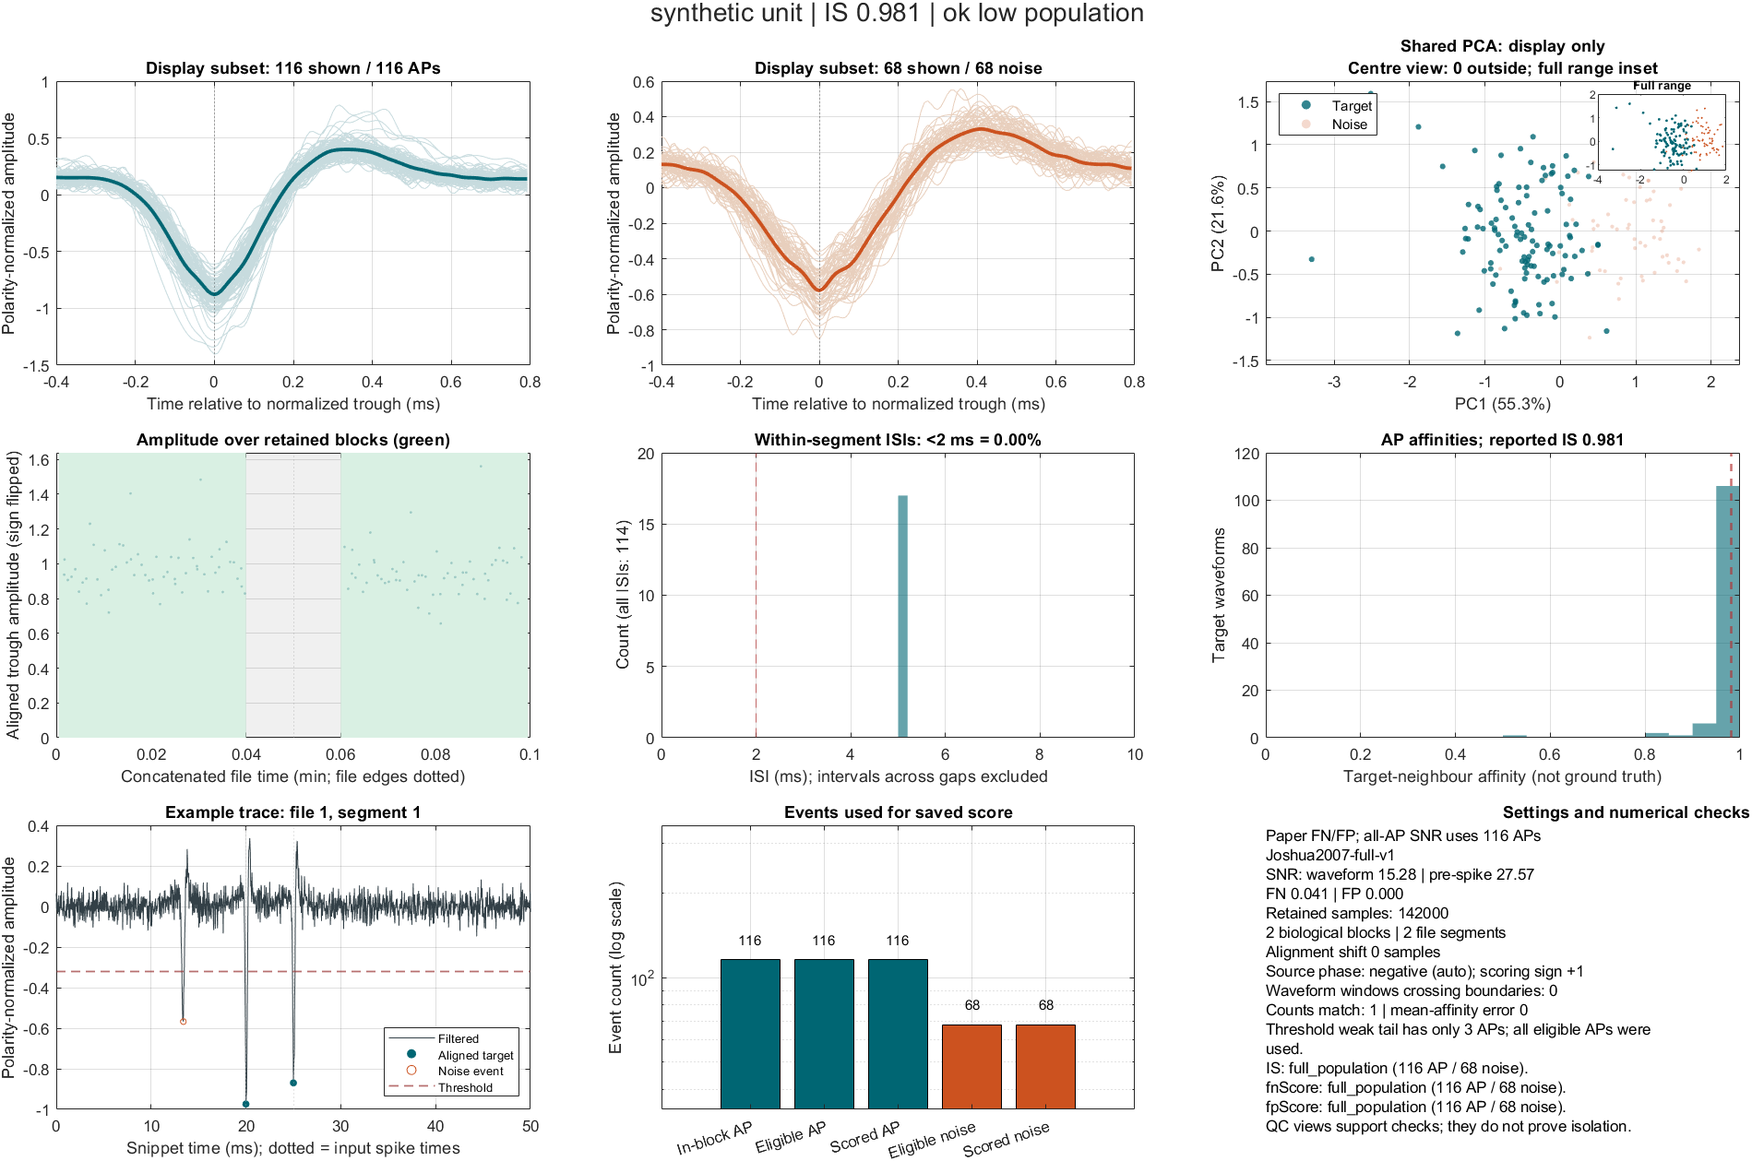
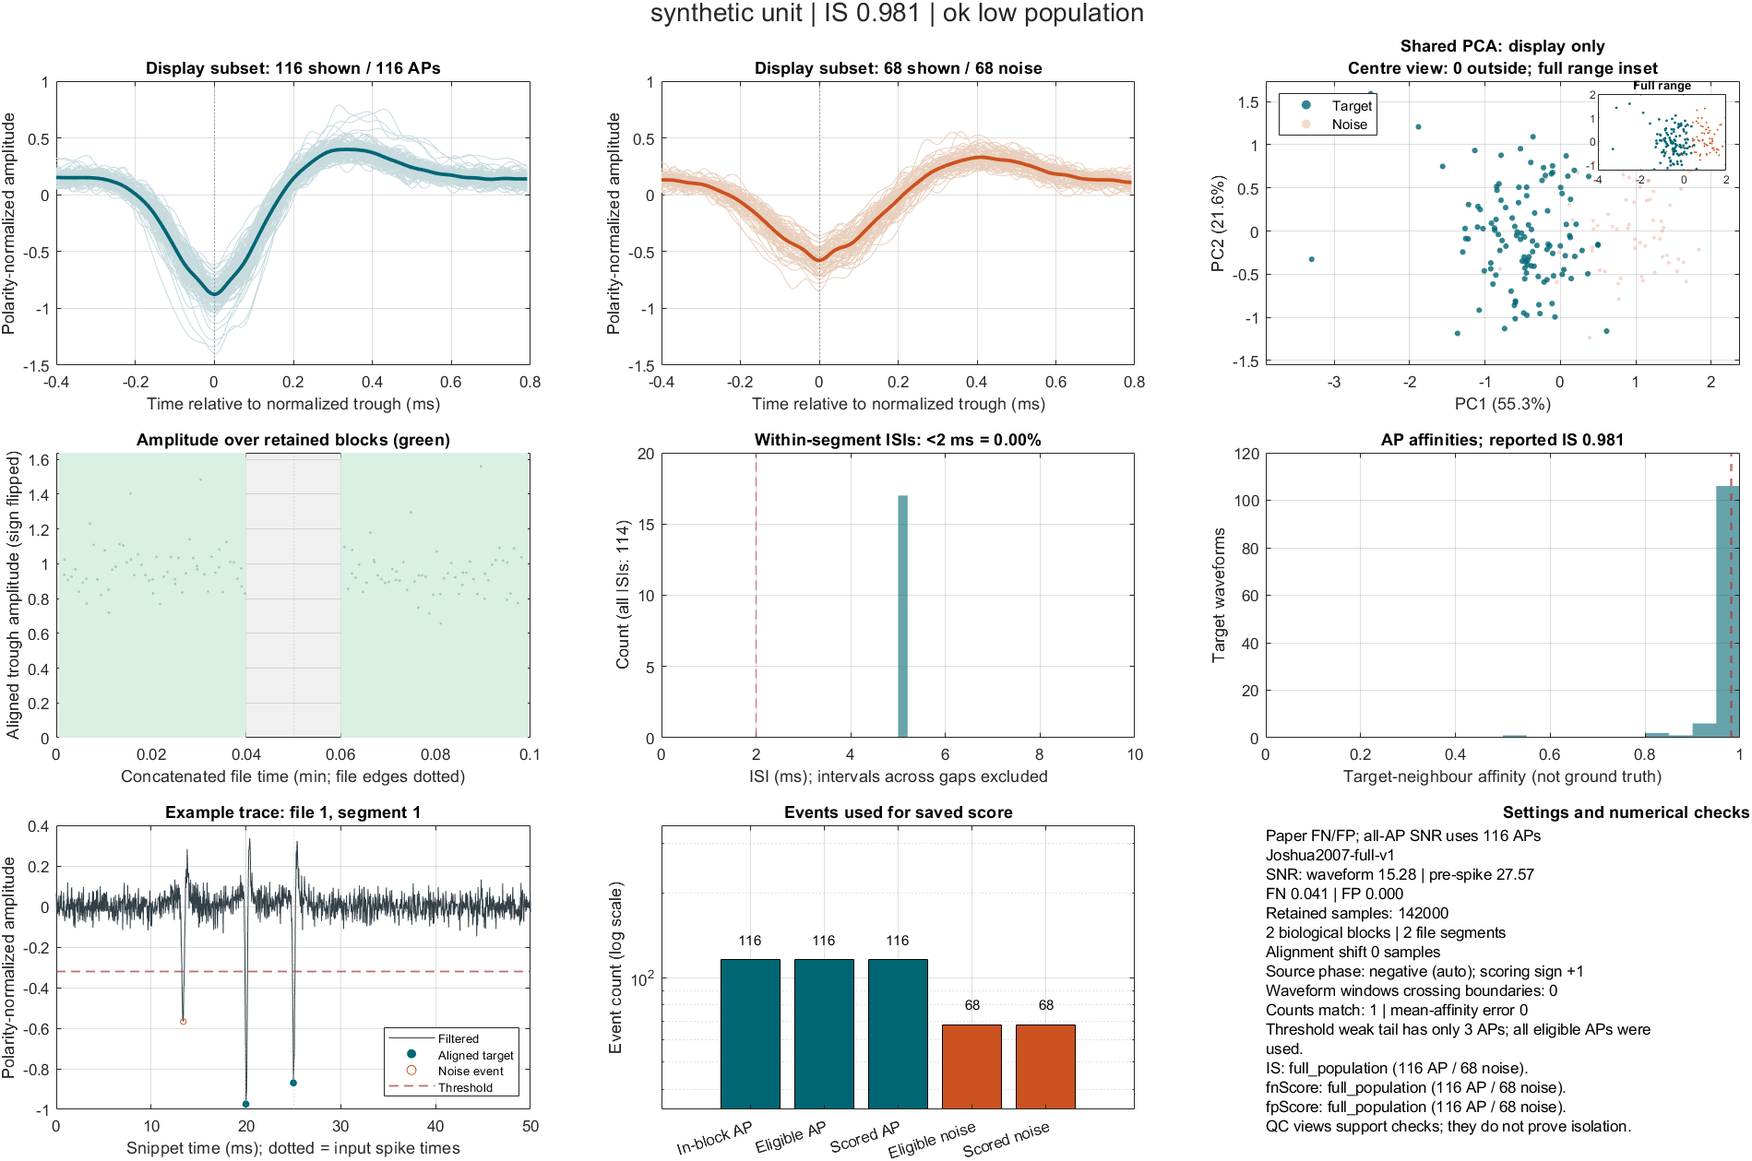
Clarify public documentation and use a shared waveform amplitude scale
Rename package links and citation title for isolation_score. Describe inputs, settings and metrics for public users, removing development-history wording. Link the AP and noise waveform y-axes and regenerate the synthetic example.

Validation: 15 portable tests passed; numerical demo results match the previous version exactly; shared limits include all displayed traces and remain synchronized during zooming.

Changed region(s): [[0.3728, 0.0929, 0.6524, 0.2788]]

diff --git a/+isolation/private/plot_isolation_unit.m b/+isolation/private/plot_isolation_unit.m
@@ -25,7 +25,7 @@ end
 teal=[0 .4 .45]; orange=[.8 .32 .12];
 layout=tiledlayout(fig,3,3,'Padding','compact','TileSpacing','loose');
 title(layout,sprintf('%s | IS %.3f | %s',name,r.IS,strrep(r.Status,'_',' ')),'Interpreter','none','FontSize',17);
-ax=nexttile(layout); hold(ax,'on');
+ax=nexttile(layout); hold(ax,'on'); targetWaveformAxis=ax;
 % First row: waveforms actually scored, plus their shared display projection.
 plot(ax,t,q.TargetWaveforms','Color',[.78 .86 .87],'LineWidth',.4);
 plot(ax,t,q.TargetMean,'Color',teal,'LineWidth',2.3); xline(ax,0,':');
@@ -36,6 +36,12 @@ plot(ax,t,q.NoiseWaveforms','Color',[.91 .81 .74],'LineWidth',.4);
 plot(ax,t,q.NoiseMean,'Color',orange,'LineWidth',2.3); xline(ax,0,':');
 title(ax,sprintf('Display subset: %d shown / %d noise',size(q.NoiseWaveforms,1),r.NumNoise));
 xlabel(ax,'Time relative to normalized trough (ms)'); ylabel(ax,'Polarity-normalized amplitude'); grid(ax,'on');
+% A shared range makes AP/noise amplitudes directly comparable; include the
+% full automatic range of both panels, then keep them linked during zooming.
+sharedAmplitudeLimits=[min(targetWaveformAxis.YLim(1),ax.YLim(1)), ...
+    max(targetWaveformAxis.YLim(2),ax.YLim(2))];
+ylim(targetWaveformAxis,sharedAmplitudeLimits); ylim(ax,sharedAmplitudeLimits);
+linkaxes([targetWaveformAxis ax],'y');
 ax=nexttile(layout); hold(ax,'on');
 if ~isempty(q.PCATarget)
     hN=scatter(ax,q.PCANoise(:,1),q.PCANoise(:,2),7,orange,'filled','MarkerFaceAlpha',.22);

diff --git a/+isolation/private/isolation_config.m b/+isolation/private/isolation_config.m
@@ -1,5 +1,5 @@
 function cfg = isolation_config(options)
-% Full-population calculation settings. No constants script needed.
+% Validated waveform preparation, scoring and execution settings.
 % All APs fix preprocessing/SNR; all AP/noise events enter the metrics.
 % Native requires Windows, 144 features and K=31. DisplayEvents limits
 % diagnostic waveform storage ONLY, never scoring populations.
@@ -16,7 +16,7 @@ cfg=struct('SampleRateHz',30000,'BinSamples',36,'SplitRate',4,'K',31, ...
 names=fieldnames(options);
 for i=1:numel(names)
     assert(isfield(cfg,names{i}),'isolation:UnknownOption', ...
-        'Unknown/retired setting %s. See isolation_config for full-population options.',names{i});
+        'Unknown setting %s. See isolation.defaults for available options.',names{i});
     cfg.(names{i})=options.(names{i});
 end
 positive={'SampleRateHz','BinSamples','SplitRate','K','DistanceScale', ...

diff --git a/+isolation/defaults.m b/+isolation/defaults.m
@@ -1,8 +1,8 @@
 function options = defaults(overrides)
 %DEFAULTS Return calculation settings, optionally applying validated overrides.
 %   options = isolation.defaults(struct('Backend','matlab','Progress',false));
-%   See docs/options.md. All scoring uses full populations, regardless of the
-%   DisplayEvents cap. SampleRateHz comes from recording in isolation.score.
+%   See docs/options.md. DisplayEvents controls plotted waveform subsets.
+%   SampleRateHz comes from recording in isolation.score.
 if nargin<1, overrides=struct; end
 validateattributes(overrides,{'struct'},{'scalar'});
 options=isolation_config(overrides);

diff --git a/+isolation/score.m b/+isolation/score.m
@@ -6,7 +6,7 @@ function [result,diagnostics] = score(recording,options)
 %   All intervals/indices are inclusive, one-based samples in Signal.
 %   Set options.CaptureQC=true for isolation.plotUnit(diagnostics).
 %   Raw data must be an unfiltered single channel. Both AP/noise waveforms
-%   receive the same preprocessing. No event is sampled out of the metrics.
+%   receive the same preprocessing described in docs/methods.md.
 if nargin<2, options=struct; end
 validateattributes(options,{'struct'},{'scalar'});
 [rec,mask,id]=normalize_recording(recording);

diff --git a/+isolation/plotSummary.m b/+isolation/plotSummary.m
@@ -40,7 +40,7 @@ yticklabels(ax,strrep(names,'_',' ')); xlabel(ax,'Units'); title(ax,'Calculation
 ax=nexttile(layout); axis(ax,'off');
 text(ax,0,1,{'All supplied results are represented.', ...
     'NaN metrics are omitted from histograms.', ...
-    'Full populations enter each valid score.', ...
+    'Inspect waveform and stability diagnostics.', ...
     'Low-population flags need inspection.', ...
     'FN/FP are classifier-based estimates.', ...
     'QC does not establish ground truth.'},'VerticalAlignment','top');

diff --git a/+isolation/scoreWaveforms.m b/+isolation/scoreWaveforms.m
@@ -1,5 +1,5 @@
 function [result,diagnostics] = scoreWaveforms(ap,noise,options)
-%SCOREWAVEFORMS Compute full-population metrics for already-prepared waveforms.
+%SCOREWAVEFORMS Evaluate isolation quality using prepared AP/noise waveforms.
 %   Rows are events; columns are identical waveform coordinates in both
 %   populations. This entry point does NOT filter, align, normalize or select
 %   noise events. See docs/data-format.md before using externally cut waves.

diff --git a/+isolation/private/knn_test.m b/+isolation/private/knn_test.m
@@ -32,7 +32,7 @@ if active(1)
             distanceSum=distanceSum+sum(sqrt(d),'all');
         end
     end
-    % Preserve the established Ns^2 normalization, including zero self terms.
+    % The Ns^2 normalization includes zero self terms.
     d0=cfg.DistanceScale*distanceSum/(ns*ns); details.characteristicDistance=d0;
     if ~(isfinite(d0) && d0>0), active(1)=false; details.status='zero_spike_spread'; end
 end

diff --git a/+isolation/private/threshold_event_centers.m b/+isolation/private/threshold_event_centers.m
@@ -1,5 +1,5 @@
 function events = threshold_event_centers(signal,threshold,maxGap)
-% First minimum in each threshold-excursion group, preserving legacy ties.
+% Use the first minimum in each threshold-excursion group to resolve ties.
 % Gap samples are above threshold, so cannot contain the group's minimum.
 crossings=find(signal(:)<threshold);
 if isempty(crossings), events=zeros(0,1); return; end

diff --git a/+isolation/Contents.m b/+isolation/Contents.m
@@ -1,4 +1,4 @@
-% ISOLATION  Full-population extracellular spike isolation metrics.
+% ISOLATION  Evaluate neuronal isolation quality after spike sorting.
 %   score          - Score one raw channel and one target unit.
 %   scoreWaveforms - Score already-prepared AP and noise waveforms.
 %   batch          - Score jobs sequentially; skip complete saved results.

diff --git a/docs/methods.md b/docs/methods.md
@@ -1,11 +1,11 @@
 # Calculation definitions and implementation choices
 
 The methodological reference is [Joshua et al. (2007)](https://doi.org/10.1016/j.jneumeth.2007.03.012).
-The description below defines this implementation, including choices that
-should be reported alongside scores. This is not a claim that every original
-acquisition or preprocessing detail is reproduced.
+The sections below describe waveform preparation, metric definitions and
+numerical settings. Report these settings alongside scores when comparing
+recordings or implementations.
 
-## Populations and fixed preprocessing
+## Waveform preparation and noise detection
 
 1. Merge physically adjacent stable intervals, retain gaps, and split at every
    acquisition-file boundary. High-pass filter each segment with same-file
@@ -13,7 +13,8 @@ acquisition or preprocessing detail is reproduced.
    passband loss and 10-dB stopband attenuation, applied using `filtfilt`.
 2. Reject edge events that cannot support the complete waveform and alignment
    searches. Default acquisition-edge guard is 20 ms; filter padding is 50 ms.
-3. Use **all eligible APs** to form the initial mean template. Choose its
+3. Form the initial mean template from the eligible action potentials (APs).
+   Choose its
    dominant positive or negative phase once per unit, normalize the entire
    filtered signal to a negative target phase, and determine the shared global
    timing offset. `Polarity` can explicitly select positive/negative instead.
@@ -24,18 +25,16 @@ acquisition or preprocessing detail is reproduced.
 5. At the all-AP mean waveform's trough column, sort AP values. Average the
    weakest `ceil(0.02*Ns)` (least-negative) values and divide by 2. This
    negative value is the noise-detection threshold. The weakest count is at
-   least one. This **2% and 1/2 convention is an explicit implementation
-   setting**, not an adaptive event-ratio rule.
+   least one. `ThresholdFraction` and `ThresholdRatio` control these settings.
 6. Group samples below threshold into excursions (default grouping gap scales
    from four samples at 30 kHz). Take the first minimum in each group and apply
    the same waveform processing. Exclude target centers within a timing
    tolerance scaling from ±2 samples at 30 kHz. Threshold events from other
    units intentionally remain in the background population.
 
-All eligible events are retained. There is no incremental sampling, uncertainty
-stopping rule, or reduction to a fixed AP/noise ratio. Very few noise events
-are reported rather than repaired by changing the threshold. A nonnegative
-threshold is invalid and must be investigated.
+The resulting AP and noise waveforms form the populations used for scoring.
+A nonnegative threshold produces `invalid_noise_threshold`; inspect the
+waveform alignment and polarity when this occurs.
 
 ## Isolation score
 
@@ -61,7 +60,8 @@ affinity to the target population under this preprocessing and detector.
 Classify each event by the majority among its **K=31 nearest other events** in
 the pooled AP/noise population. Every distance uses all waveform coordinates.
 Self is excluded. Exact distance ties give APs priority over noise; within a
-population, original order breaks remaining ties. K is never silently reduced.
+population, original order breaks remaining ties. At least `K+1` pooled events
+are required for these classifier scores.
 
 ```text
 Nfn = number of noise events classified as AP
@@ -78,7 +78,7 @@ comparisons using certified bounds or early rejection.
 
 ## Two SNRs
 
-Let `mu` be the mean of **all** prepared AP waveforms and `p2p=max(mu)-min(mu)`.
+Let `mu` be the mean prepared AP waveform and `p2p=max(mu)-min(mu)`.
 
 - `snrAP = p2p / std((A-mu)(:))`. This pools waveform residual elements and uses
   the sample-SD denominator `Ns*D-1`.
@@ -88,9 +88,8 @@ Let `mu` be the mean of **all** prepared AP waveforms and `p2p=max(mu)-min(mu)`.
   bins; the first target in a segment has no preceding interval and is omitted.
   Baselines cannot cross a stable/file boundary.
 
-There is **no division by five** in either measure. Thus report these SNR
-definitions explicitly when comparing with other implementations. Undefined
-zero-variance baselines or unavailable pre-spike data yield NaN.
+These amplitude-to-standard-deviation ratios define the reported SNRs.
+Undefined zero-variance baselines or unavailable pre-spike data yield NaN.
 
 ## Computation and precision
 
@@ -100,13 +99,13 @@ stores no full all-event distance matrix. A conservative pair-count guard
 prevents accidentally launching impractical reference calculations.
 
 The optional native backend computes FN/FP on an AVX2 CPU using 32 orthonormal
-PCA coordinates as **search bounds only**. Final candidate distances retain all
-144 original coordinates. It never substitutes a reduced-dimensional metric.
+PCA coordinates to bound the neighbor search. Final candidate distances use
+the 144 waveform coordinates.
 GPU IS includes all AP–AP and AP–noise pairs and streams noise chunks. The
 characteristic distance and accumulated sums use FP64. Default `mixed` uses
 FP32 dot products/affinity arithmetic with cancellation safeguards; `double`
-uses FP64 affinity arithmetic. Mixed precision is a numerical approximation,
-not statistical sampling. Record backend and precision from `MetricStatistics`.
+uses FP64 affinity arithmetic. Record backend and precision from
+`MetricStatistics` for reproducibility.
 
 ## Interpretation and limitations
 
@@ -114,9 +113,8 @@ not statistical sampling. Record backend and precision from `MetricStatistics`.
   need at least `K+1` pooled events. Zero AP spread makes IS undefined while
   classifier scores can still be calculated.
 - `MinimumReportedSpikes=100` flags either population below 100. This is a QC
-  heuristic, **not** a minimum population prescribed by the paper or a proof
-  of estimator reliability. Full population scoring does not eliminate
-  detector/label bias or finite-recording uncertainty.
+  heuristic for inspecting small populations. Interpretation also depends on
+  the reliability of spike labels, noise detection and recording duration.
 - Scores depend on event selection, stable periods, feature grid and noise
   definition. Changing those settings changes the quantity being measured.
 - Polarity is fixed per unit, not optimized to maximize IS. Nearly balanced

diff --git a/README.md b/README.md
@@ -1,19 +1,19 @@
-# Isolation Score for MATLAB
+# Isolation Quality of Neurons After Spike Sorting
 
-[![MATLAB tests](https://github.com/NirvikNU/isolation_score4github/actions/workflows/matlab.yml/badge.svg)](https://github.com/NirvikNU/isolation_score4github/actions/workflows/matlab.yml)
+[![MATLAB tests](https://github.com/NirvikNU/isolation_score/actions/workflows/matlab.yml/badge.svg)](https://github.com/NirvikNU/isolation_score/actions/workflows/matlab.yml)
 [![License: MIT](https://img.shields.io/badge/License-MIT-blue.svg)](LICENSE)
 
-Calculate extracellular spike isolation quality using the approach of
-[Joshua, Elias, Levine & Bergman (2007)](https://doi.org/10.1016/j.jneumeth.2007.03.012).
-The package returns isolation score (IS), false-negative and false-positive
-classifier scores, and two signal-to-noise measures. **Every eligible AP and
-noise event enters the metrics.** No event sampling or PCA dimension reduction
-is used for scoring.
+Assess how well a sorted neuronal unit is separated from background activity
+in extracellular recordings. This MATLAB package calculates isolation score
+(IS) using the approach of
+[Joshua, Elias, Levine & Bergman (2007)](https://doi.org/10.1016/j.jneumeth.2007.03.012),
+alongside false-negative and false-positive classifier scores, two
+signal-to-noise measures, and diagnostic plots.
 
-This is an independently maintained implementation, with explicit preprocessing
-and numerical choices documented in [Methods](docs/methods.md). It is not the
-paper authors' official software. An isolation score is a quality indicator,
-not ground-truth evidence that a cluster contains a single neuron.
+Supply a raw recording with sorted spike times and stable recording intervals,
+or provide prepared spike and noise waveforms. Use the scores together with
+waveform, stability and interspike-interval plots to evaluate unit quality.
+See [Methods](docs/methods.md) for calculation definitions and interpretation.
 
 ## Start in one minute
 
@@ -21,7 +21,7 @@ Download this repository or clone it, open MATLAB, and add **only its root** to
 the path. Do not use `genpath`: the internal functions are intentionally private.
 
 ```matlab
-addpath('/path/to/isolation_score4github');
+addpath('/path/to/isolation_score');
 recording = isolation.demoData;  % Synthetic data; no download required.
 options = struct('Backend','matlab','CaptureQC',true);
 [result, diagnostics] = isolation.score(recording, options);
@@ -89,8 +89,8 @@ Unit and summary plots are independent. Capture diagnostics only for units you
 want to inspect. To inspect the highest/lowest IS after a batch, identify their
 indices in `results`, then call `isolation.score` for those recordings with
 `CaptureQC=true`; this explicitly recomputes those selected units. Saved QC can
-be replotted without computation. Summaries do not load recordings and do not
-silently add other sessions.
+be replotted without computation. Summaries include exactly the result cells
+you supply, allowing you to group units by session or across sessions.
 
 For resume, attach `jobs(k).Result = results{k}` and optionally
 `jobs(k).Diagnostics = diagnostics{k}` before calling `batch` again. Complete
@@ -110,9 +110,10 @@ recompute deliberately after such changes. See [the runnable batch example](exam
 - Native acceleration currently supports **64-bit Windows, an AVX2 CPU, 144
   waveform coordinates, K=31, and an NVIDIA CUDA GPU**. It combines CPU FN/FP
   with GPU IS. Build from source using [native/README.md](native/README.md).
-  Binaries, recordings and the paper PDF are not distributed.
-- Full populations can be large. Pair calculations are blocked; native IS
-  streams noise tiles through the GPU. Memory/disk limits remain explicit.
+  The build instructions list the compiler and toolkit requirements.
+- For large recordings, pair calculations are processed in blocks and native
+  IS streams noise tiles through the GPU. Configure memory and disk limits
+  for your machine.
   `DisplayEvents` affects stored plotting subsets only.
 - Native IS defaults to mixed precision; use `ISPrecision='double'` for FP64
   affinity arithmetic. The precision is recorded in the result metadata.
@@ -130,20 +131,22 @@ batch ETA is a rough average of completed jobs, not a completion guarantee.
 | `fpScore` | `Nfp / Ns`; classifier estimate defined in the paper |
 | `snrAP` | Mean AP peak-to-peak amplitude / pooled waveform residual SD |
 | `snrBeforeAp` | Same amplitude / pre-spike baseline SD; NaN for waveform-only input |
-| `NumAPs`, `NumNoise` | Full populations entering metric calculation |
+| `NumAPs`, `NumNoise` | Numbers of target spikes and noise events used |
 | `Status` | Calculation outcome; inspect before interpreting any metric |
 | `MetricStatistics` | Population counts, low-population flags, backend and precision |
 | `MetricVersion` | Calculation definition: `Joshua2007-full-v1` |
 
-The SNRs have **no division by five**. `ok_low_population` is an inspection flag,
-not a failed calculation. Undefined metrics remain NaN; the threshold is never
-lowered to force more noise events. Details and limitations are in
+`ok_low_population` flags a result supported by few spike or noise events.
+Undefined metrics are reported as NaN. The SNR definitions, noise-detection
+threshold and other interpretation details are described in
 [Methods](docs/methods.md) and [Troubleshooting](docs/troubleshooting.md).
 
 The unit figure shows target/noise waveforms, joint PCA for display, amplitude
 over retained time blocks, within-segment ISIs, AP affinities, a thresholded
 trace, population counts, and consistency checks. Green time spans are retained
 stable blocks; gray spans are excluded; dotted lines mark file boundaries.
+The spike and noise waveform panels share the same amplitude scale for direct
+visual comparison.
 
 ## Test and contribute
 
@@ -172,3 +175,4 @@ Also record this repository's release/commit, options and backend in your
 analysis. [CITATION.cff](CITATION.cff) provides citation metadata.
 
 Released under the [MIT License](LICENSE). Maintained by Nirvik Sinha.
+This is an independent implementation of the cited method.

diff --git a/docs/validation.md b/docs/validation.md
@@ -1,9 +1,9 @@
 # Validation
 
-## Release checks
+## Tested configurations
 
-The public interface was checked locally on Windows using MATLAB R2024a and
-Signal Processing Toolbox. The optional backend was built with Visual Studio
+The package is tested on Windows using MATLAB R2024a and Signal Processing
+Toolbox. The optional backend was built with Visual Studio
 2022, Windows SDK 10.0.22000.0 and CUDA 11.2, and tested on an AVX2 CPU with an
 NVIDIA RTX 3080. These are tested configurations, not universal compatibility
 claims.
@@ -27,24 +27,16 @@ MATLAB reference and per-AP IS affinities within `1e-6` for mixed precision and
 test criteria on that fixture, not universal error bounds. Native tests skip
 when the required executable/platform/toolkit environment is absent.
 
-Before extraction, the established research pipeline already had its own raw
-loader and real-recording checks. For the public adapter, a separate local
-regression compared a synthetic raw recording, stable gap and acquisition
-boundary with that established pipeline. The complete result and scoring
-diagnostics matched exactly. That private comparator and real recordings are
-not needed for, or distributed with, the public tests.
+All three examples use generated data. The README figure is generated from
+`isolation.demoData`. This small example runs quickly and illustrates the
+low-population status as well as the diagnostic plots.
 
-All three public examples are executable using generated data. The README
-figure is generated from `isolation.demoData`; it contains no recorded neural
-data. Its low-population flags are intentional consequences of a small,
-quick-running example.
-
-## What remains the user's responsibility
+## Validating a new dataset
 
 Synthetic regressions do not validate a new acquisition adapter's timestamp
 origin, channel selection, stability labels or scientific noise definition.
 For a new dataset, inspect one representative unit and verify original sample
-coordinates and full-population counts before a large batch.
+coordinates and event counts before a large batch.
 
 The CI workflow runs the portable suite on Linux with MATLAB R2024a and Signal
 Processing Toolbox using the official [MATLAB Actions](https://github.com/matlab-actions/run-tests).
